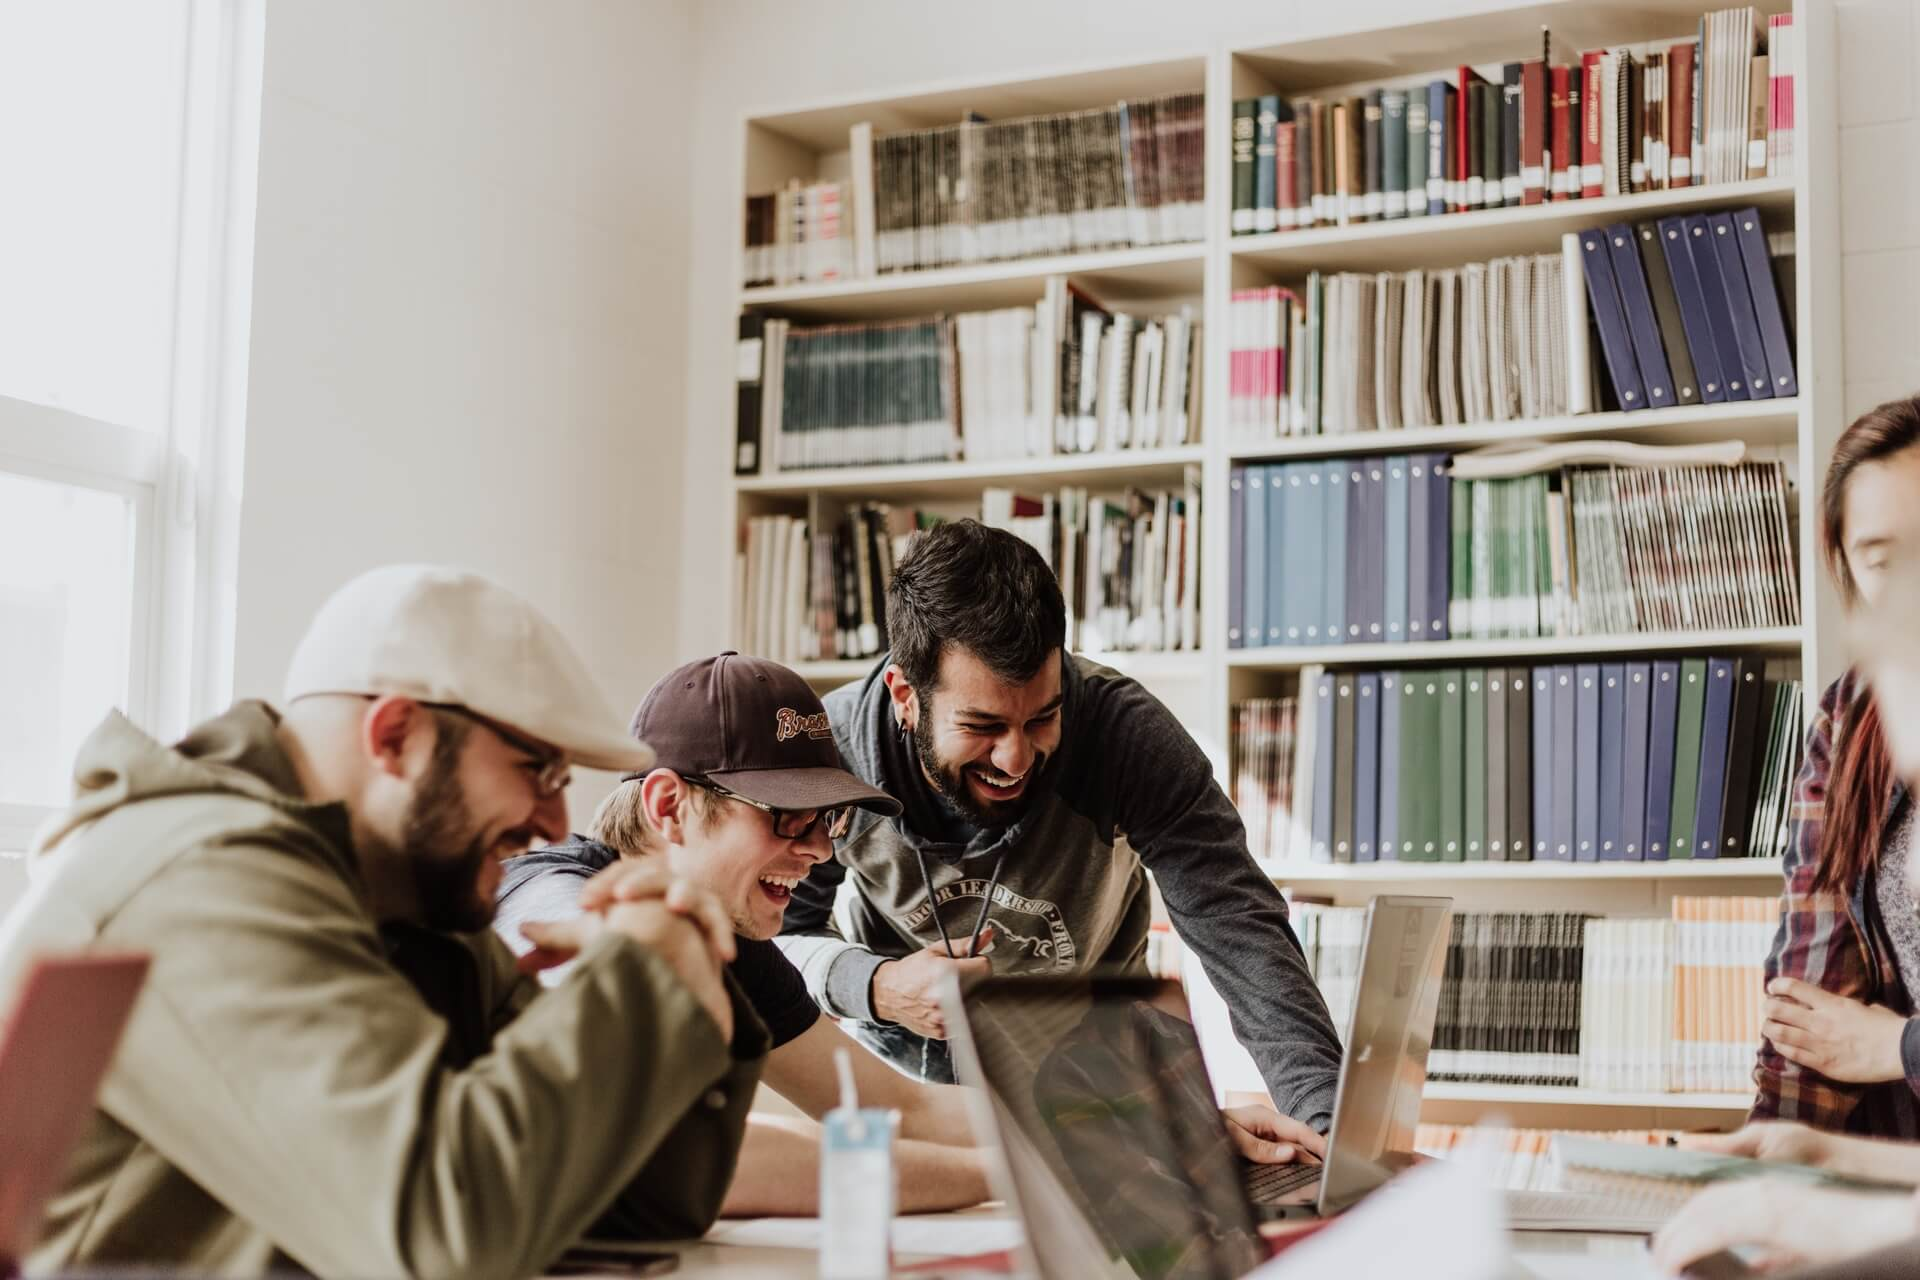
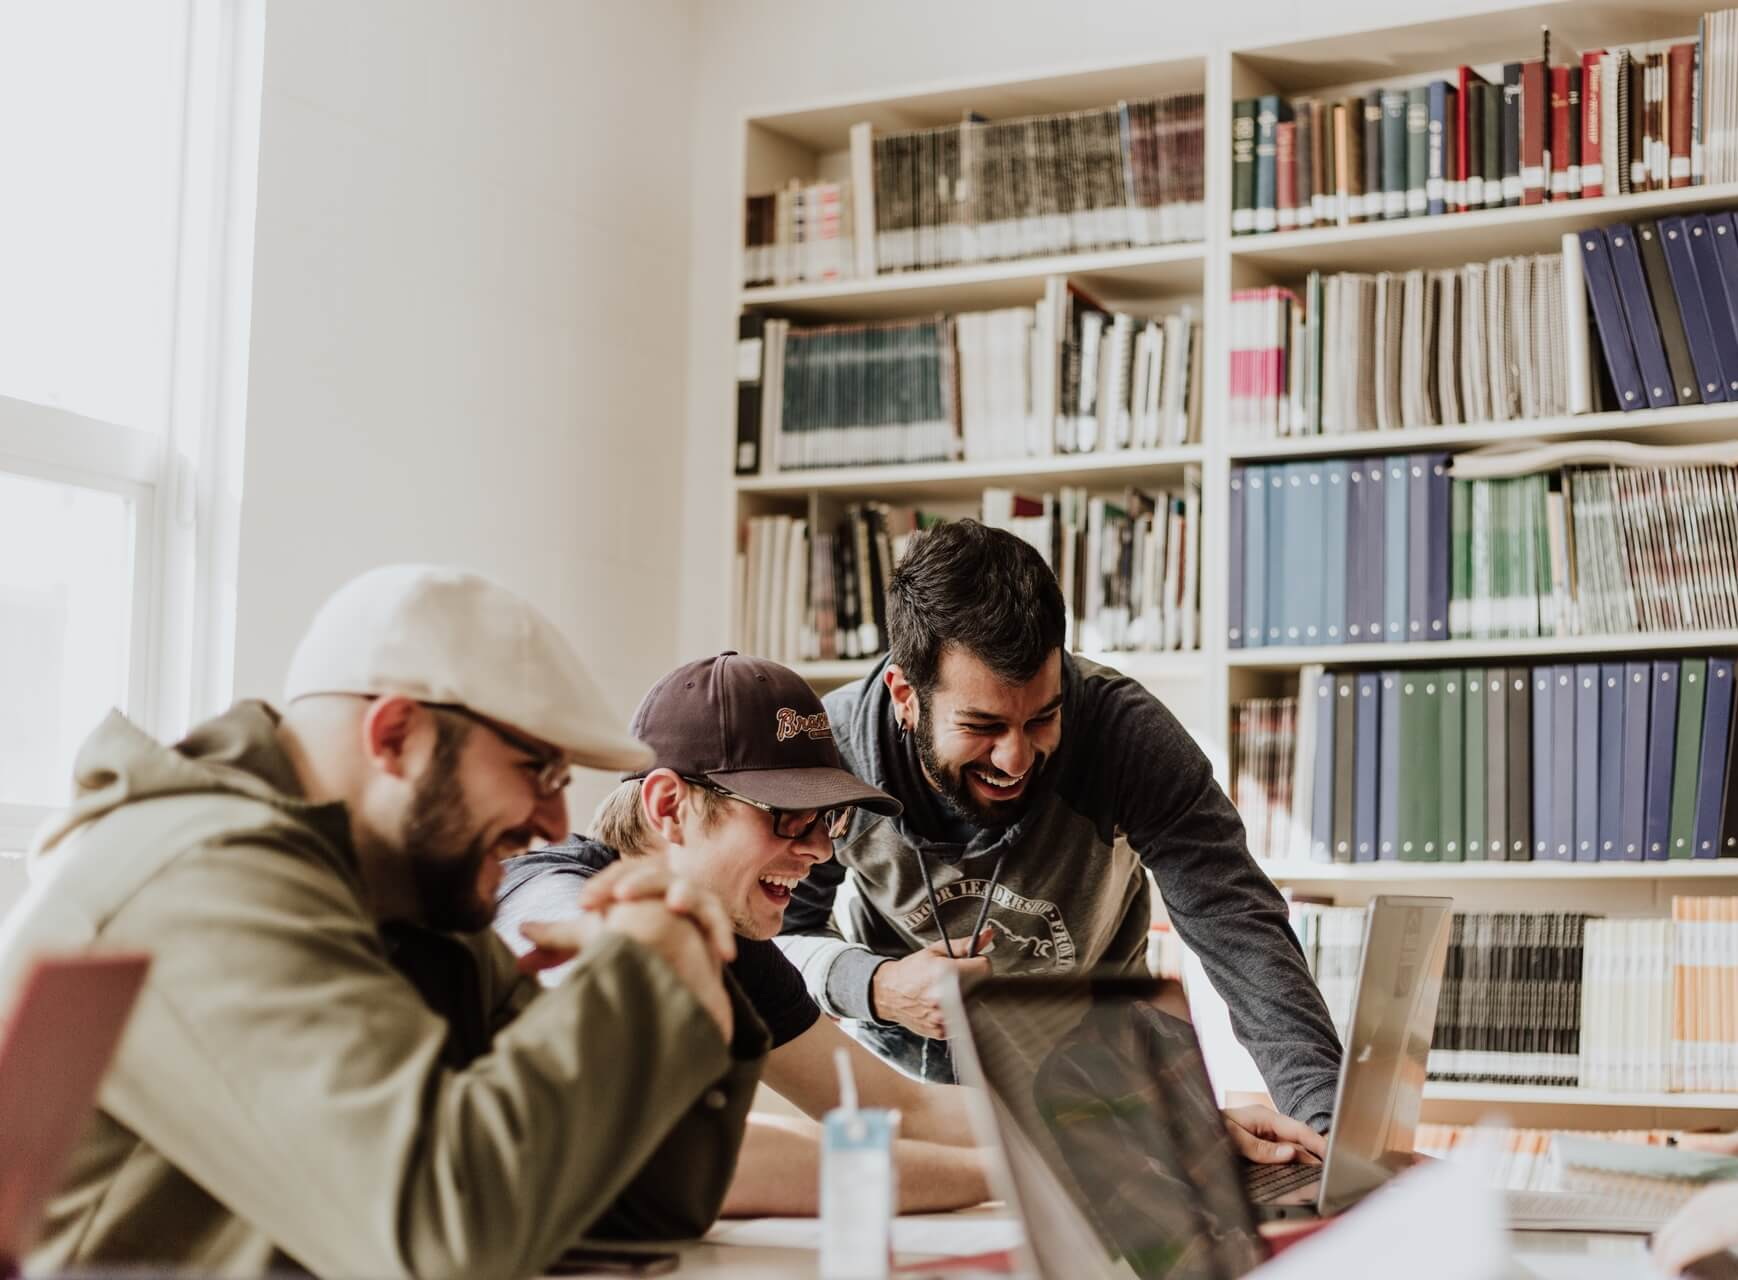
part1 in section language and sectors done but remain 2 popups, and part2

diff --git a/css/index.css b/css/index.css
@@ -1184,4 +1184,65 @@ header#Home .arrows img:nth-of-type(3) {
   opacity: 1;
 }
 
+#LanguageSectors .part1 {
+  background-image: url("../images/youth.jpg");
+  background-position: center;
+  background-size: cover;
+  background-attachment: fixed;
+  min-height: 300px;
+  display: flex;
+  flex-direction: row;
+  justify-content: center;
+  align-items: center;
+  position: relative;
+  left: initial;
+  right: initial;
+  top: initial;
+  bottom: initial;
+  z-index: initial;
+}
+#LanguageSectors .part1::before {
+  content: "";
+  display: block;
+  width: 100%;
+  height: 100%;
+  position: absolute;
+  left: 0;
+  right: initial;
+  top: 0;
+  bottom: initial;
+  z-index: initial;
+  background: radial-gradient(#68b703, #305d00);
+  opacity: 0.8;
+}
+#LanguageSectors .part1 .title h2 {
+  color: #fff;
+}
+#LanguageSectors .part1 .title::after {
+  background-color: #fff;
+}
+#LanguageSectors .part1 .buttons {
+  position: relative;
+  left: initial;
+  right: initial;
+  top: initial;
+  bottom: initial;
+  z-index: initial;
+}
+#LanguageSectors .part1 .buttons button {
+  background-color: #fff;
+  color: #ee5e00;
+  border: none;
+  padding: 10px 20px;
+  border-radius: 15px;
+  transform: translateY(0);
+  transition: 0.5s;
+}
+#LanguageSectors .part1 .buttons button.btn:active {
+  border: none;
+}
+#LanguageSectors .part1 .buttons button:hover {
+  transform: translateY(-5px);
+}
+
 /*# sourceMappingURL=index.css.map */

diff --git a/index.html b/index.html
@@ -200,6 +200,26 @@
 	</div>
 </section>
 
+<section id="LanguageSectors" class="py-5">
+	<div class="part1">
+	<div class="container">
+		<div class="title mb-5 wow animate__heartBeat">
+			<h2 class="h1 fw-bold text-center">LANGUAGES & SECTORS</h2>
+		</div>
+		<div class="content">
+			<div class="buttons text-center">
+				<button class="btn secondColor fw-semibold me-4 wow animate__zoomInLeft" data-wow-duration="1.5s" onclick="openPopup('video');">Sectors</button><button class="btn secondColor fw-semibold wow animate__zoomInRight" data-wow-duration="1.5s" onclick="openPopup('video');">Languages</button>
+			</div>
+		</div>
+	</div>
+	</div>
+	<div class="part2">
+		<div class="container">
+			
+		</div>
+	</div>
+</section>
+
 <section id="ContactUs" class="py-4 py-lg-5">
 	<div class="container">
 		<div class="title mb-4 wow animate__heartBeat">
@@ -276,6 +296,11 @@
 <footer class="py-2">
 	<p class="mb-0 text-center">&copy; 2021 <span class="fw-bold">SemiCode</span>, Ltd. | All Rights Reserved .</p>
 </footer>
+<div class="popup" popup-type-name="language" onclick="closePopup('language')">
+	<div class="box">
+		
+	</div>
+</div>
 <div class="popup" popup-type-name="service" onclick="closePopup('service')">
 	<div class="box rounded-3">
 		<div class="head py-2">

diff --git a/js/index.js b/js/index.js
@@ -1,7 +1,7 @@
 let $navEle = $('nav.navbar'),
 	sections = $('section[id], header').get(),
 	services = null,
-	emailRegex = /^[a-zA-Z][a-zA-Z_.0-9]*@(gmail|yahoo).(com|io|org)/gm;
+	languages = null;
 
 //to activate wow plugins
 new WOW({
@@ -62,6 +62,25 @@ $(window).scroll(function(e){
 		`);
 		i++;
 	}
+})();
+
+(async function(){
+	let response = await fetch("https://semicode.tech/api/v1/l10nhouse/languages");
+	languages = await response.json();
+	console.log(languages);
+	let i = 0;
+	/*for(let language of languages){
+		$('#Services .row').append(`
+			<div class="col-md-6 part wow ${((i + 1) % 2 == 0) ? 'animate__fadeInRight': 'animate__fadeInLeft'}" data-wow-delay="${i * 0.2}s" data-wow-duration="1s">
+				<div class="item text-center rounded-4">
+					<img src="images/${service.icon}" alt="s1 service1" class="mb-3">
+					<h5 class="mb-3">${service.title}</h5>
+					<p>${prepareDesc(service.description.slice(0,150))}... <a class="firstColor fw-semibold" onclick="showService(${i})">Read More</a></p>
+				</div>
+			</div>
+		`);
+		i++;
+	}*/
 })();
 	
 $('.popup .box').click(function(e){

diff --git a/scss/components/_Language&Sectors.scss b/scss/components/_Language&Sectors.scss
@@ -1,0 +1,46 @@
+@use "./../abstracts" as *;
+#LanguageSectors{
+	.part1{
+		background-image: url('../images/youth.jpg');
+		background-position: center;
+		background-size: cover;
+		background-attachment: fixed;
+		min-height: 300px;
+		@include flex();
+		@include position();
+		&::before{
+			@include createEle();
+			@include position($p : absolute,$l : 0,$t : 0);
+			background: radial-gradient(#68b703, #305d00);
+			opacity: 0.8;
+		}
+		.title{
+			h2{
+				color: #fff;
+			}
+			&::after{
+				background-color: #fff;
+			}
+		}
+		.buttons{
+			@include position();
+			button{
+				background-color: #fff;
+				color: $secondColor;
+				border: none;
+				padding: 10px 20px;
+				border-radius: 15px;
+				transform: translateY(0);
+				transition: 0.5s;
+				&.btn{
+					&:active{
+						border: none;
+					}
+				}
+				&:hover{
+					transform: translateY(-5px);
+				}
+			}
+		}
+	}
+}

diff --git a/scss/styles.scss b/scss/styles.scss
@@ -5,5 +5,6 @@
 @use "./components/Services" as *;
 @use "./components/WhyUs" as *;
 @use "./components/ContactUS" as *;
+@use "./components/Language&Sectors" as *;
 
 
